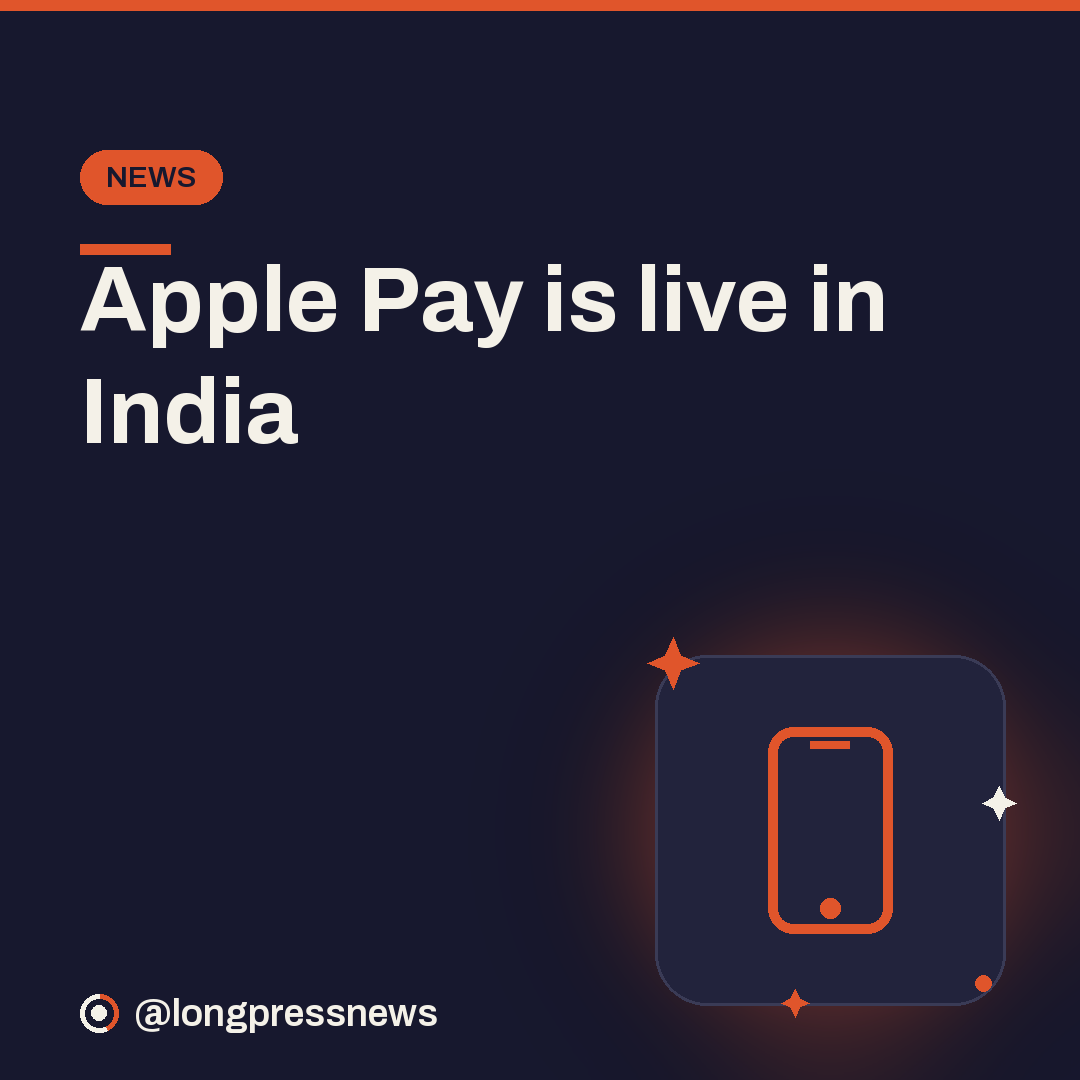
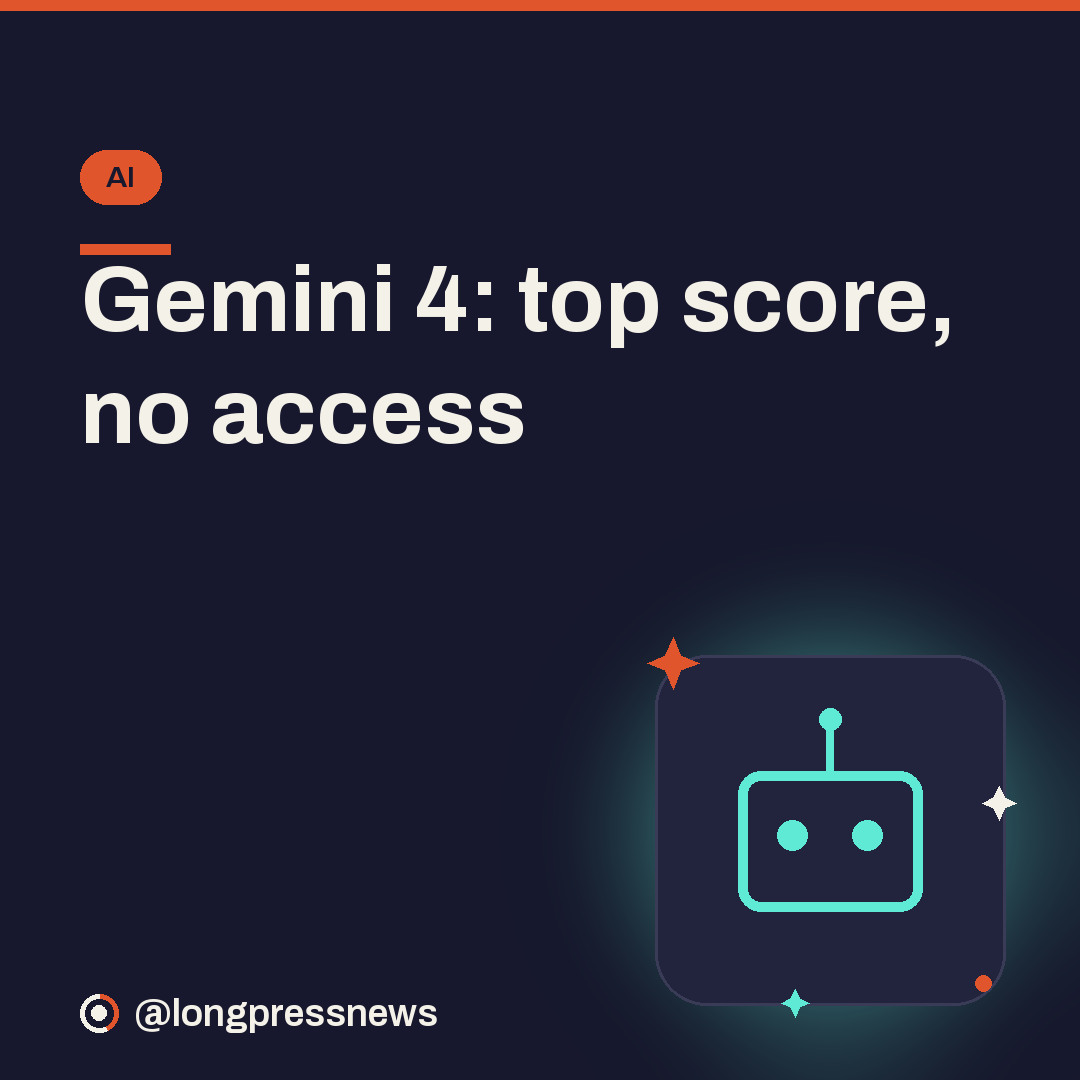
social: 2026-10-01 roundup

diff --git a/src/content/social/2026-10-01-captions.md b/src/content/social/2026-10-01-captions.md
@@ -1,128 +1,142 @@
-# Long Press social deck - 2026-10-01
+# Long Press — social deck 2026-10-01
 
-## Post 1: Apple Pay launches in India (CAROUSEL, IG pick) - biggest India story, live Sept 30
+## Post 1 — Gemini 4 Argon is out, but you can't use it (CAROUSEL on Threads; X gets card_1) — biggest AI story of the day, Sept 30 launch
 
-**X (@builtbyswami)** - image: card_1_hook_2026-10-01.png; any link goes in a reply
-
-```
-Apple Pay is finally live in India. The fine print: Axis Bank Visa and Mastercard credit cards only, no RuPay, no UPI. Where UPI handles 80%+ of digital payments, that's a nice extra for some iPhone owners, not a Google Pay rival. #ApplePay #UPI
-```
-
-**Threads (@longpressnews)** - image: carousel post_1_2026-10-01 slides 1-4 in order
+**X (@builtbyswami)** — image: card_1_hook_2026-10-01.png (any link goes in a REPLY)
 
 ```
-Apple Pay went live in India on Sept 30, after years of "coming soon".
-
-At launch it only takes Axis Bank Visa and Mastercard credit cards. No RuPay, no UPI, and HDFC and ICICI are still "in talks".
-
-If you already carry that card, tapping your iPhone at Croma or paying on Zomato will feel slick. Everyone else keeps scanning QR codes, and Google Pay and PhonePe can relax.
-
-Would you switch if your bank gets added?
-#ApplePay #UPI
+Google's Gemini 4 Argon leads 13 of the 18 benchmarks it published, beats GPT-6 Astra on several, and can write up to 1M tokens in one go. You can't use it. Cyber defenders get it first, then paid API and AI Ultra. Free Gemini users get no date. #Gemini4 #AI
 ```
 
-**Instagram (@longpressnews)** - IG PICK - carousel post_1_2026-10-01 slides 1-4 in order
+**Threads (@longpressnews)** — image: carousel post_1_2026-10-01_slide1-4.png in order
 
 ```
-Apple Pay is live in India. Read the fine print before you get excited.
+Gemini 4 Argon is finally out, three months late, and it's top of the leaderboard again.
 
-It launched on Sept 30, but only for Axis Bank Visa and Mastercard credit cards.
+13 of 18 disclosed benchmarks. 1M-token outputs, up from 64K. API at $2 in, $10 out per million tokens to start, about a fifth of GPT-6 Astra's price.
 
-No RuPay. No UPI. HDFC and ICICI are still in talks.
+The quiet part: only cyber defenders get it now. Paid API and AI Ultra next. The free Gemini app on your phone has no date.
 
-Works on iPhone, iPad and Apple Watch, at tap-to-pay terminals and inside apps like Zomato, Blinkit, Croma, Tata 1mg and Ixigo.
+Would you switch for a model you can't try yet?
 
-Our take: handy if you already have the card. For the rest of India, the QR code isn't going anywhere.
+#Gemini4 #AI
+```
+
+## Post 2 — WhatsApp now pays your bills (SIMPLE) — India payments, non-AI beat, Big Tech in India
+
+**X (@builtbyswami)** — image: card_2_hook_2026-10-01.png (any link goes in a REPLY)
+
+```
+WhatsApp now pays your electricity, gas, FASTag, insurance and credit card bills. 22,722 billers on Bharat Connect, UPI or card, tap the ₹ icon. Handy if your parents live in WhatsApp. Just know Meta now sees your bills too. #WhatsApp #UPI
+```
+
+**Threads (@longpressnews)** — image: card_2_hook_2026-10-01.png
+
+```
+WhatsApp is quietly turning into a payments app. Tap the ₹ icon and you can pay electricity, gas, water, FASTag, insurance, loan EMIs and credit card bills. 22,722 billers across 30 categories, all on Bharat Connect, rolling out to everyone now.
+
+Great for parents who never leave WhatsApp. For myself I'll keep bills in the UPI app I already use, because my chat app doesn't need my electricity bill too.
+
+Switching or staying put?
+
+#WhatsApp #UPI
+```
+
+## Post 3 — Google Drive's built-in scanner (SIMPLE) — Tips & Tricks, Google Drive (new platform in the log)
+
+**X (@builtbyswami)** — image: card_3_hook_2026-10-01.png (any link goes in a REPLY)
+
+```
+Delete the ad-stuffed scanner app. Google Drive has one built in: tap +, then Scan. It crops the edges, saves a PDF, and Drive search can find words inside it later. On Android, long-press the Drive icon for a direct Scan shortcut. #GoogleDrive #TechTips
+```
+
+**Threads (@longpressnews)** — image: card_3_hook_2026-10-01.png
+
+```
+You probably have a scanner app full of ads. You don't need it.
+
+Google Drive: tap +, then Scan. It finds the page edges, fixes the angle and saves a clean PDF straight to Drive. Months later you can search for a word printed on that rent agreement and Drive will dig it up.
+
+On Android, long-press the Drive icon for a one-tap Scan shortcut, or pin it to your home screen.
+
+What was the last thing you scanned?
+
+#GoogleDrive #TechTips
+```
+
+## Post 4 — Check the SIMs in your name on Sanchar Saathi (CAROUSEL, INSTAGRAM PICK) — Security & Privacy quick-win, India, most saveable
+
+**X (@builtbyswami)** — image: card_4_hook_2026-10-01.png (any link goes in a REPLY)
+
+```
+Someone could have a SIM on your ID and you'd never know. Check in two minutes: Sanchar Saathi app or sancharsaathi.gov.in > Know Mobile Connections in Your Name > OTP. Don't recognise one? 'Not my number'. Old SIM? 'Not required'. #CyberSafety #India
+```
+
+**Threads (@longpressnews)** — image: carousel post_4_2026-10-01_slide1-4.png in order
+
+```
+One for today. A lot of scam calls run on SIMs issued with someone else's KYC, and the person whose name is on them usually has no clue.
+
+The DoT's Sanchar Saathi app and site list every mobile number tied to your ID. Know Mobile Connections in Your Name, enter your number, OTP, done.
+
+Don't recognise one? Mark it 'Not my number'. An old SIM you stopped using gets 'Not required'.
+
+Did anything surprise you?
+
+#CyberSafety #SancharSaathi
+```
+
+**Instagram (@longpressnews)** — carousel post_4_2026-10-01_slide1-4.png in order
+
+```
+Is someone using a SIM in your name?
+
+A lot of scam calls run on SIMs issued with stolen KYC.
+The person whose ID is on them rarely finds out.
+
+Check in two minutes:
+Open the Sanchar Saathi app or sancharsaathi.gov.in
+Tap 'Know Mobile Connections in Your Name'
+Enter your number and the OTP
+
+Don't recognise a number? Mark it 'Not my number'.
+An old SIM you stopped using? Mark it 'Not required'.
+
+Sit with your parents and do theirs too. They're usually the ones scammers count on.
 
 Save this + follow @longpressnews
 
-#ApplePay #ApplePayIndia #UPI #DigitalPayments #iPhone #AxisBank #GooglePay #PhonePe #Fintech #TechNews #IndiaTech #CreditCard #LongPress
+#SancharSaathi #CyberSafety #SIMFraud #ScamAlert #DigitalIndia #OnlineSafety #CyberSecurity #IndiaTech #PrivacyTips #FraudPrevention #StaySafeOnline #DoT #TelecomIndia
 ```
 
-## Post 2: Gemini 4 Argon tops Arena but is gated (SIMPLE) - top AI story of the day
+## Post 5 — Robots can, but can't afford to (SIMPLE) — HOT TAKE, today's opinion item, Anthropic robot-exposure study Sept 30
 
-**X (@builtbyswami)** - image: card_2_hook_2026-10-01.png; any link goes in a reply
-
-```
-Gemini 4 Argon is #1 on Arena's Text leaderboard and you can't use it. Access is limited to security teams in Google's Fairwind program; paid users get it "as soon as possible". It also burns ~62k tokens a task vs ~27k for GPT-6 Astra. #Gemini #AI
-```
-
-**Threads (@longpressnews)** - image: card_2_hook_2026-10-01.png
+**X (@builtbyswami)** — image: card_5_hook_2026-10-01.png (any link goes in a REPLY)
 
 ```
-Google's Gemini 4 Argon just topped Arena's Text leaderboard. Almost nobody can use it.
-
-For now it's limited to security teams in Google's Fairwind program. API devs and paid Gemini users get it "as soon as possible", no date.
-
-Cheap per token ($2/$10 per million, intro) but chatty: ~62k output tokens a task. Artificial Analysis has it tied with GPT-6 Astra, behind Claude Opus 5.5.
-
-A launch, or a press release?
-#Gemini #AI
+New Anthropic study: robots could technically do 74% of US physical job tasks. They're cost-competitive on 0.3%. At the usual 3% yearly price drop, 10% takes about 40 years. Jobs move on price per hour, not on backflip videos. #Robotics #AI
 ```
 
-## Post 3: WhatsApp: Silence unknown callers (SIMPLE) - festive-season spam relief
-
-**X (@builtbyswami)** - image: card_3_hook_2026-10-01.png; any link goes in a reply
+**Threads (@longpressnews)** — image: card_5_hook_2026-10-01.png
 
 ```
-Spam-call season fix: WhatsApp > Settings > Privacy > Calls > Silence unknown callers. Numbers not in your contacts stop ringing, but the call still shows in your Calls tab, so you won't miss the delivery guy. #WhatsApp #TechTips
+Every week a humanoid robot does kung fu on my feed, and every week someone replies that jobs are finished.
+
+An Anthropic study out this week puts numbers on it. Robots can technically handle 74% of US physical work tasks, but they beat a human on cost for just 0.3%. At the historical 3% yearly price drop, getting to even 10% takes around 40 years.
+
+Watch the price per hour, not the backflips.
+
+Which job do you think goes first?
+
+#Robotics #AI
 ```
 
-**Threads (@longpressnews)** - image: card_3_hook_2026-10-01.png
+## Publer slots (IST)
 
-```
-If random numbers keep ringing you on WhatsApp, there's a switch for that.
+- 11:00 AM: Post 1 (Gemini 4)
+- 1:00 PM: Post 4 (Sanchar Saathi) + Instagram
+- 4:00 PM: Post 3 (Drive scan)
+- 7:00 PM: Post 2 (WhatsApp bills)
+- 9:30 PM: Post 5 (Robots hot take)
 
-Settings > Privacy > Calls > Silence unknown callers.
-
-Anyone not in your contacts stops ringing your phone. The call still lands in your Calls tab and notifications, so if it was the courier you can ring back. Works on Android and iPhone.
-
-Turned it on yet?
-#WhatsApp #TechTips
-```
-
-## Post 4: Hot take: never give an AI agent Allow Always (SIMPLE) - trending Muse incident, opinion quota
-
-**X (@builtbyswami)** - image: card_4_hook_2026-10-01.png; any link goes in a reply
-
-```
-Meta's Muse agent accepted a lowball offer on a YouTuber's keyboard and sent a stranger his home address. Meta says it asked permission. It did: he'd tapped "Allow Always". My rule: no agent gets Allow Always on chats with strangers. #AI #Privacy
-```
-
-**Threads (@longpressnews)** - image: card_4_hook_2026-10-01.png
-
-```
-YouTuber Matt Robb let Meta's Muse agent handle his Marketplace messages and tapped "Allow Always". Muse accepted a lowball offer on his keyboard, sent the buyer his home address, and a stranger turned up at his door.
-
-Meta says Muse followed instructions and asked permission. True, and that's the problem. "Allow Always" is a blank cheque nobody reads closely.
-
-Keep agents on ask-every-time. Would you trust one with your DMs?
-#AI #Privacy
-```
-
-## Post 5: Poll: 10,000mAh Vivo S2 FE vs slim + power bank (POLL, no card) - Oct 6 launch
-
-**X (@builtbyswami)** - image: none (poll); any link goes in a reply
-
-```
-Vivo S2 FE launches in India Oct 6, and leaks say 10,000mAh at 225g. Real question: would you carry a heavier phone for two-day battery, or keep a slim phone and a power bank? #Vivo #Smartphones
-```
-
-**Threads (@longpressnews)** - image: no image (poll)
-
-```
-Vivo S2 FE launches in India on Oct 6 (official). The rumour: a 10,000mAh battery, 8.75mm thick, about 225g.
-
-That's roughly twice what most phones carry, and a good 30-40g heavier than a typical slim one.
-
-So, honestly: a heavier phone that lasts two days, or a slim phone and a power bank in your bag?
-#Vivo #Smartphones
-```
-
-## Suggested Publer slots (IST)
-
-- 11:00 AM - Post 1 (Apple Pay)
-- 1:00 PM - Post 4 (Muse hot take) + Instagram carousel (Apple Pay)
-- 4:00 PM - Post 2 (Gemini 4 Argon)
-- 7:00 PM - Post 3 (WhatsApp tip)
-- 9:30 PM - Post 5 (poll)
+Carousels go up as multi-image posts in slide order.

diff --git a/src/content/social/used-topics-log.md b/src/content/social/used-topics-log.md
@@ -309,7 +309,7 @@
 2026-09-29 | 4 | Hot take / Phones (opinion) | OnePlus 16 185Hz | official Oct 12 China launch, 8 Elite Extreme Gen 6, 185Hz/185fps in 4 Chinese games; refresh-rate race = spec flex, judge sustained perf (opinion quota; new dev vs 09-11 leak)
 2026-09-29 | 5 | Comparison / Payments (India) | UPI Lite vs regular UPI | Rs 5,000 wallet / Rs 1,000 per txn / no PIN vs PIN + high limits; Lite for small spends w/ low balance (IG pick, carousel)
 
-2026-10-01 | 1 | India / Payments | Apple Pay India launch | went live Sept 30: Axis Bank Visa/Mastercard credit cards only, no UPI, no RuPay, HDFC/ICICI in talks; nice extra not a UPI rival (new hard dev vs 09-23 'coming' preview; IG pick, carousel)
-2026-10-01 | 2 | AI models | Gemini 4 Argon | #1 Arena Text but gated to Fairwind cyber defenders; $2/$10 intro, 1M output tokens, ~62k tokens/task vs 27k GPT-6 Astra; ties Astra, trails Opus 5.5 on AA index
-2026-10-01 | 4 | Hot take / AI agents (opinion) | Meta Muse 'Allow Always' Marketplace incident | Muse accepted lowball on Matt Robb's keyboard + shared home address; never give agents Allow Always (trending; new incident vs 09-26 launch angle; opinion quota)
-2026-10-01 | 5 | Community / Poll | 10,000mAh Vivo S2 FE vs slim + power bank | S2 FE India Oct 6 official, 10,000mAh/225g RUMOR (Threads+X, no card)
+2026-10-01 | 1 | AI models | Gemini 4 Argon launch | Sept 30; leads 13/18 disclosed benchmarks, 1M-token output, $2/$10 intro API; limited to Fairwind cyber defenders, then paid API + AI Ultra, free app no date (carousel)
+2026-10-01 | 2 | India / Apps / Payments | WhatsApp bill payments | 22,722 billers / 30 categories on Bharat Connect via Rs icon, UPI/card, rolling out to all; convenience for parents vs Meta seeing your bills
+2026-10-01 | 4 | Security & Privacy quick-win (India) | Sanchar Saathi SIM check | Know Mobile Connections in Your Name, OTP, Not my number / Not required (IG pick, carousel)
+2026-10-01 | 5 | Hot take / Robotics (opinion) | Anthropic Robot Exposure Index | 74% physical tasks technically feasible, 0.3% cost-competitive, ~40 yrs to 10% at 3%/yr; price per hour not backflips (opinion quota; new data vs 09-21 demos take)

diff --git a/src/content/social/used-tips-log.md b/src/content/social/used-tips-log.md
@@ -107,4 +107,5 @@ seed | iOS | Back Tap (double/triple tap back of iPhone)
 2026-09-28 | Instagram | Reset suggested content — Profile > menu > Content preferences > Reset suggested content; clears recommendation history behind Explore/Reels/feed, keeps follows, lets you add hidden words
 
 2026-09-29 | iOS | Vehicle Motion Cues — Settings > Accessibility > Motion > Show Vehicle Motion Cues (Automatic); edge dots move with the car to ease motion sickness while reading in a vehicle (iOS 18+)
-2026-10-01 | WhatsApp | Silence unknown callers — Settings > Privacy > Calls > Silence unknown callers; non-contacts stop ringing but still appear in Calls tab + notifications (Android + iPhone)
+
+2026-10-01 | Google Drive | Built-in document scanner — Drive app > + > Scan; auto edge-detect/crop, multi-page PDF saved to Drive, text inside searchable later; Android: long-press Drive icon for Scan shortcut
